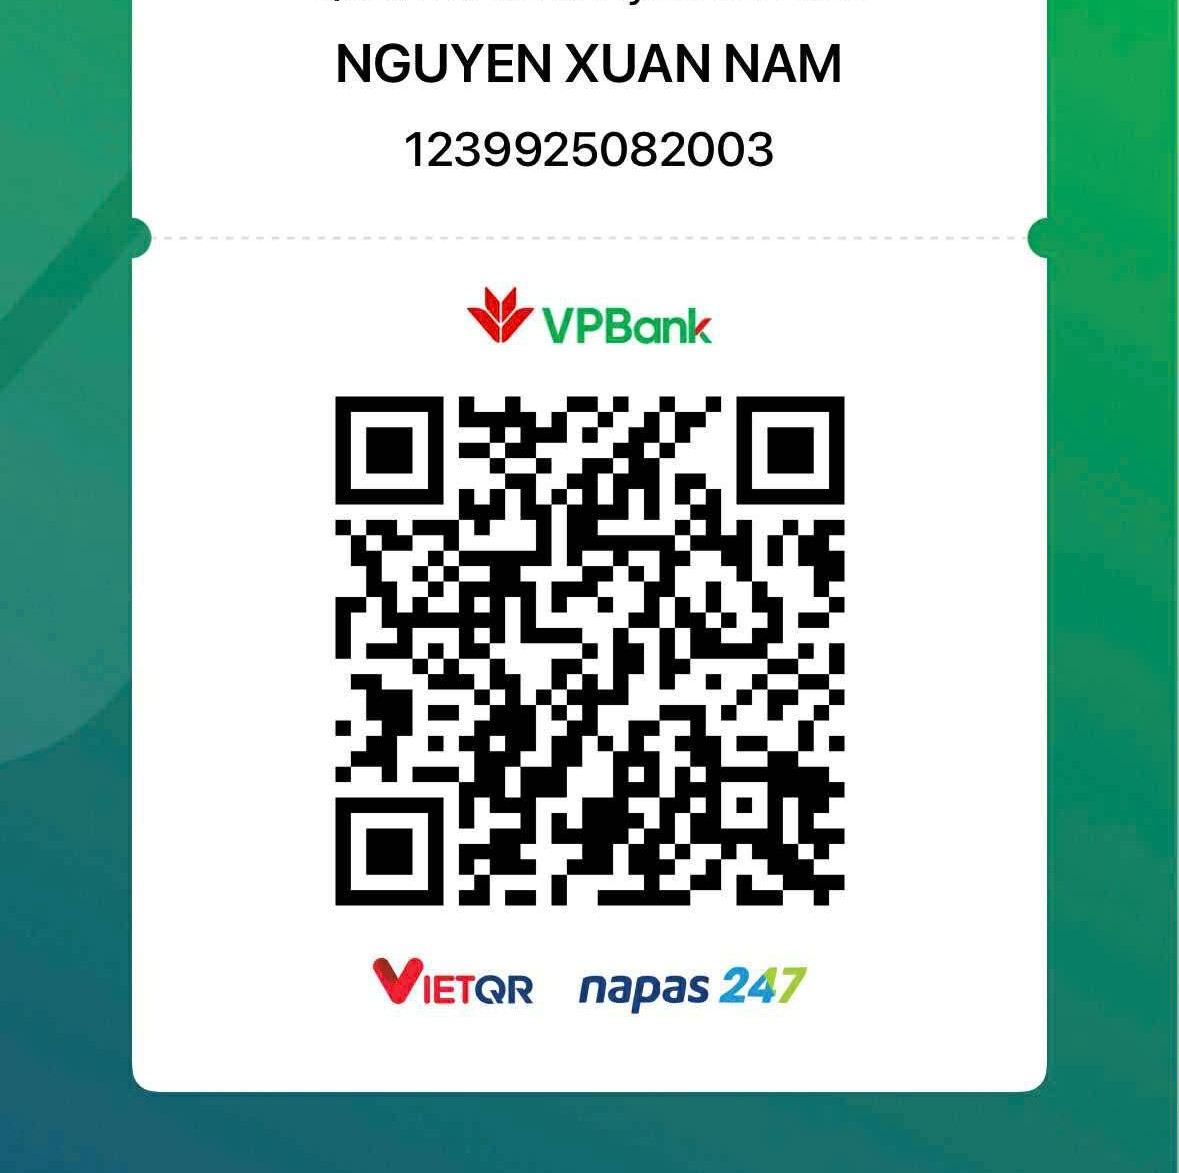
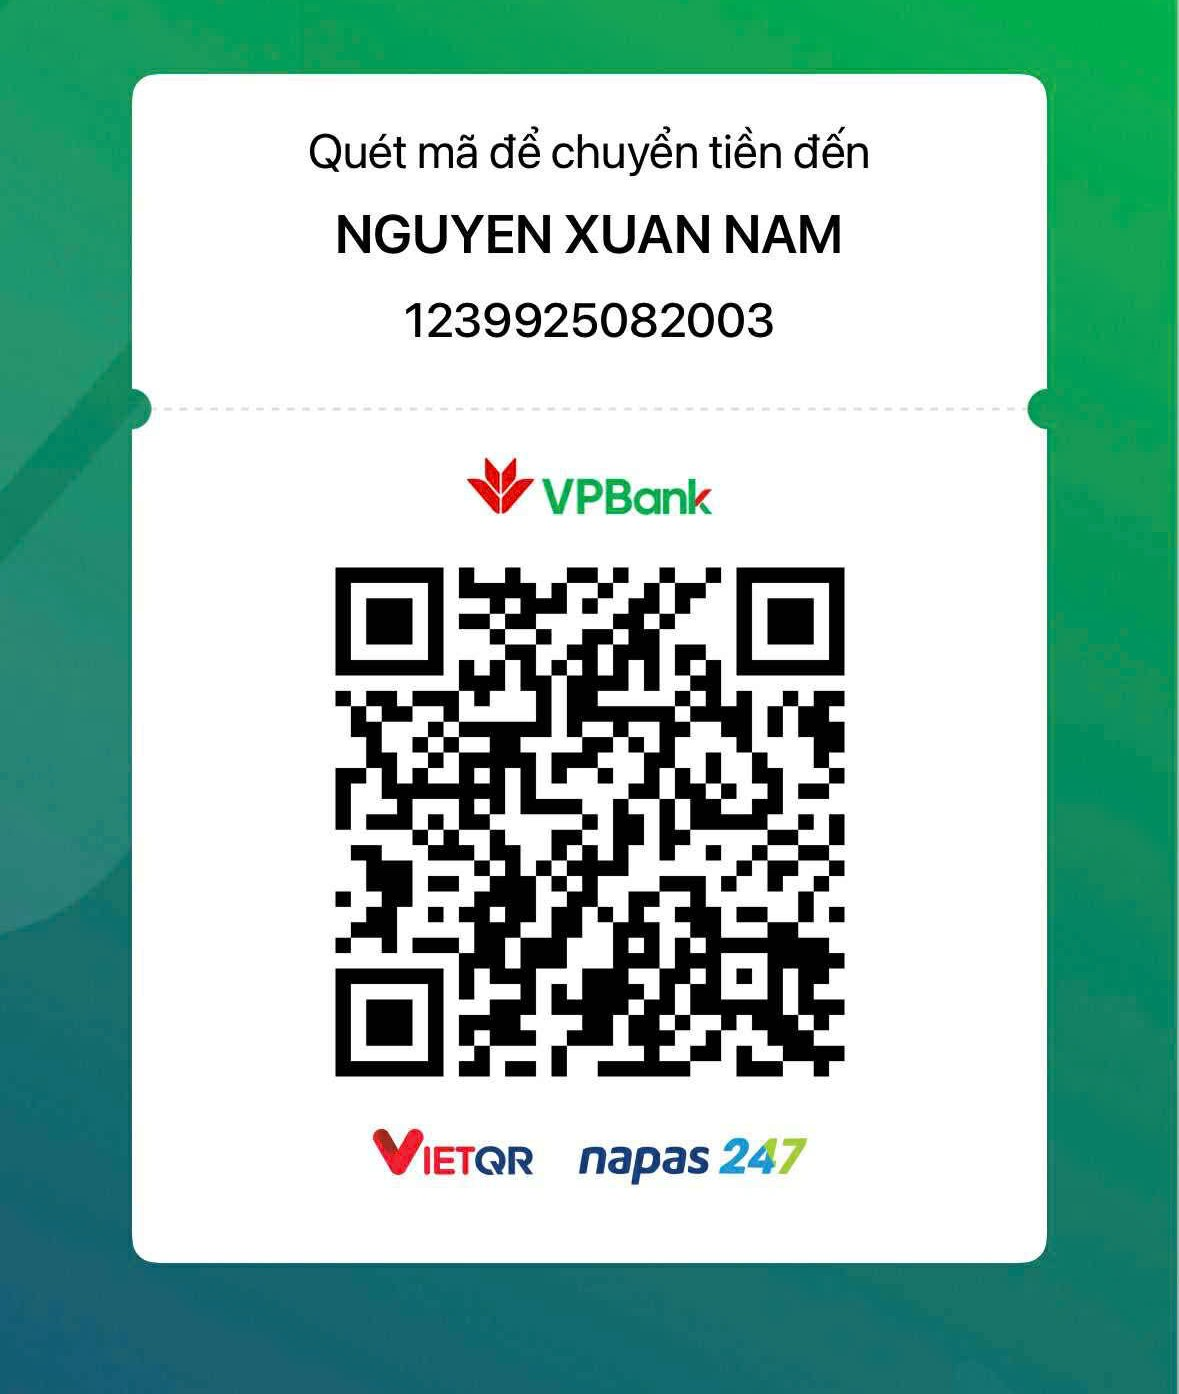
FIX

diff --git a/index.html b/index.html
@@ -533,17 +533,34 @@ Phương Thảo      </div>
    
     </a>
     <div id="box-gift">
-    <div class="gift-container" id="gift-container">
-                            <div class="gift-card">
-                <div class="gift-qr">
-                   <img src="images/56t18CHWuodBEcV72gaKIhHV60VJ5SnUZqpLcjtx.jpg" alt="" class="groom_qr" style="max-width:100%">
-                     <img src="images/sJeUZmpzXlH3TtEUlphWdpl0e6nk5LkQ2oxjsE04.jpg" alt="" class="groom_qr" style="max-width:100%"> 
+     <div class="gift-container" id="gift-container">
+                            <div class="gift-cards">
+                            	<h5 class="uk-text-center script-font" style="font-size: 14px;font-weight: bold;">Hộp Mừng Cưới</h5>
+                <div class="gift-qr" style="display:flex;">
+                
+                	 <div style="width: 50%;">
+<div style=" border-radius:12px; background:#f9fafc; padding:10px; text-align:center; width: 100%;">
+        <div style=" margin-bottom:10px;font-size: 12px;">Mừng Cưới Chú rể</div>
+        <div style=" border-radius:10px; width: 100%;">
+          <img src="images/56t18CHWuodBEcV72gaKIhHV60VJ5SnUZqpLcjtx.jpg" alt="QR Chú rể" style="width:100%; aspect-ratio: 1:1.3; object-fit: center; border-radius:8px;">
+        </div>
+      </div></div>
+                	  <div style="width: 50%; margin-left: 5px;"> 
+                	  	 <div style=" background:#f9fafc; border-radius:12px;width: 100%; padding:14px; text-align:center;">
+        <div style="margin-bottom:10px;font-size: 12px;">Mừng Cưới Cô dâu</div>
+        <div style=" border-radius:10px; width: 100%;">
+          <img src="images/sJeUZmpzXlH3TtEUlphWdpl0e6nk5LkQ2oxjsE04.jpg" alt="QR Cô dâu" style="width:100%; aspect-ratio: 1:1.3; object-fit: center; border-radius:8px;">
+        </div>
+      </div>
+                	  </div>
+                     
+                    
                 </div>
                 <div class="gift-body">
                                     </div>
-            </div>
-                       
-    </div>
+            </div>             
+    </div> 
+
     </div>
     
   </div>
